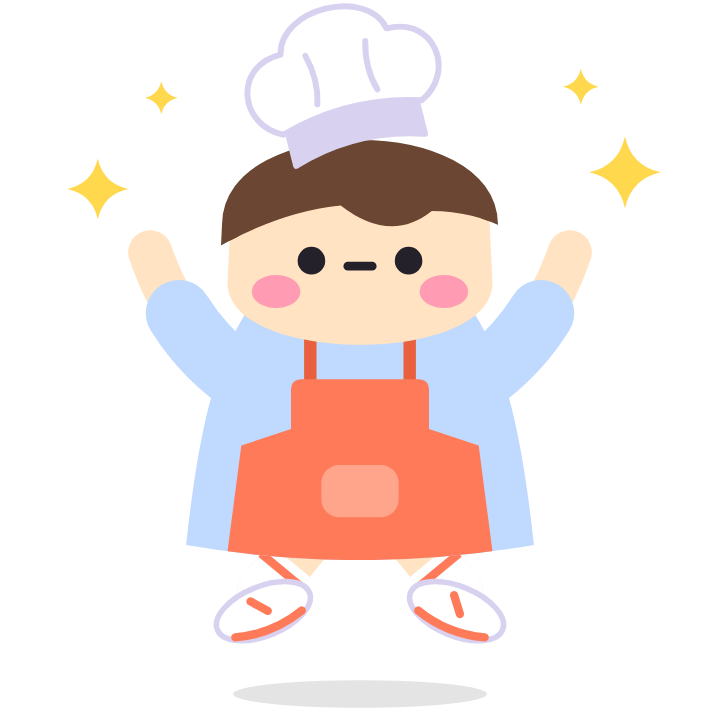
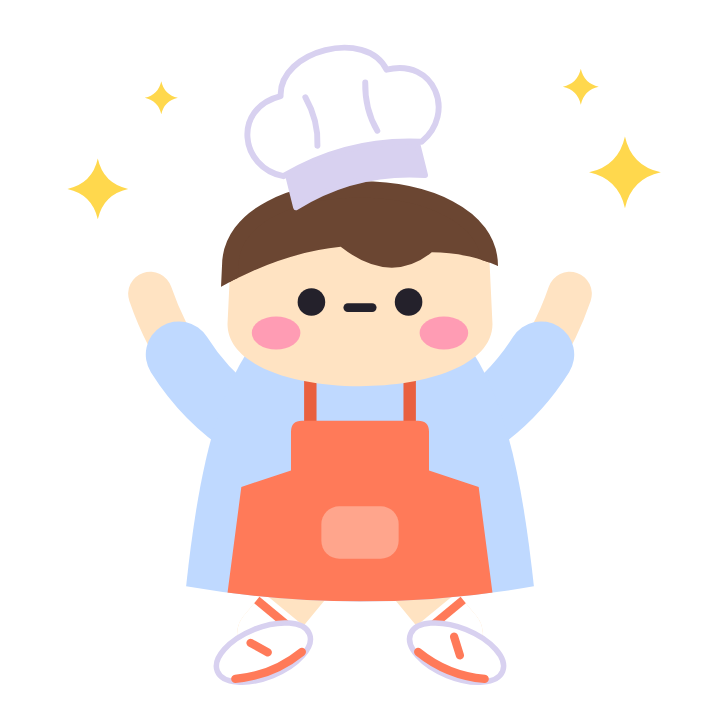
Animate the jump, fix the thinking hand and show the seated legs
The cheering chef and the happy taster now really jump: two hops and a
pause, with a ground shadow that shrinks while they are in the air, and
no movement when the device asks for reduced motion. The jump and shadow
come out of the drawings so the app can animate them.

In the thinking pose the hand rests under the chin instead of covering the
cheek. In the seated pose the legs stretch out past the skirt so the socks
and shoes show, and socks now cover only the lower leg.

Claude-Session: https://claude.ai/code/session_01YRit4BDrXmu1xBXH17a6cf

Changed region(s): [[0.1528, 0.0, 0.825, 1.0]]

diff --git a/src/components/ui.tsx b/src/components/ui.tsx
@@ -83,16 +83,26 @@ export function Card({ tone = 'soft', children, style, onPress, label }: { tone?
   );
 }
 
-/** ลอยขึ้นลงช้าๆ ให้มาสคอตดูมีชีวิต หยุดนิ่งถ้าเครื่องตั้งค่าลดการเคลื่อนไหว */
-export function Float({ children }: { children: ReactNode }) {
+/** ลอยขึ้นลงช้าๆ ให้ภาพดูมีชีวิต หรือ jump = กระโดดดีใจเป็นจังหวะพร้อมเงาที่พื้น หยุดนิ่งถ้าเครื่องตั้งค่าลดการเคลื่อนไหว */
+export function Float({ children, jump }: { children: ReactNode; jump?: boolean }) {
   const [y] = useState(() => new Animated.Value(0));
   useEffect(() => {
     let loop: Animated.CompositeAnimation | undefined;
-    const step = (toValue: number) => Animated.timing(y, { toValue, duration: 1400, easing: Easing.inOut(Easing.sin), useNativeDriver: Platform.OS !== 'web' });
-    AccessibilityInfo.isReduceMotionEnabled().then((reduce) => { if (!reduce) { loop = Animated.loop(Animated.sequence([step(-6), step(0)])); loop.start(); } }).catch(() => {});
+    const to = (toValue: number, duration: number, easing: (t: number) => number) => Animated.timing(y, { toValue, duration, easing, useNativeDriver: Platform.OS !== 'web' });
+    const steps = jump
+      ? [to(-20, 240, Easing.out(Easing.quad)), to(0, 240, Easing.in(Easing.quad)), to(-12, 180, Easing.out(Easing.quad)), to(0, 180, Easing.in(Easing.quad)), Animated.delay(700)]
+      : [to(-6, 1400, Easing.inOut(Easing.sin)), to(0, 1400, Easing.inOut(Easing.sin))];
+    AccessibilityInfo.isReduceMotionEnabled().then((reduce) => { if (!reduce) { loop = Animated.loop(Animated.sequence(steps)); loop.start(); } }).catch(() => {});
     return () => loop?.stop();
-  }, [y]);
-  return <Animated.View style={{ transform: [{ translateY: y }] }}>{children}</Animated.View>;
+  }, [y, jump]);
+  if (!jump) return <Animated.View style={{ transform: [{ translateY: y }] }}>{children}</Animated.View>;
+  return (
+    <View style={{ alignItems: 'center' }}>
+      <Animated.View style={{ transform: [{ translateY: y }] }}>{children}</Animated.View>
+      {/* เงาอยู่กับพื้น หดเล็กลงตอนตัวลอย */}
+      <Animated.View style={{ width: 56, height: 8, marginTop: -4, borderRadius: radius.pill, backgroundColor: 'rgba(36,33,43,0.14)', transform: [{ scaleX: y.interpolate({ inputRange: [-20, 0], outputRange: [0.6, 1] }) }] }} />
+    </View>
+  );
 }
 
 /** หัวหน้าจอพร้อมมาสคอต พื้นสีสดประจำหน้า แล้วต่อด้วยแผ่นเนื้อหาสีพื้น */

diff --git a/src/app/cook/[id].tsx b/src/app/cook/[id].tsx
@@ -8,7 +8,7 @@ import { useSafeAreaInsets } from 'react-native-safe-area-context';
 import Svg, { Circle } from 'react-native-svg';
 
 import { Icon } from '@/components/icon';
-import { ApiNotice, Button, Card, IconButton, mmss, Sheet, Skeleton, T } from '@/components/ui';
+import { ApiNotice, Button, Card, Float, IconButton, mmss, Sheet, Skeleton, T } from '@/components/ui';
 import { MASCOT } from '@/data/images';
 import { buildRecipe, MENU, SAFETY, tasteScore, type Heat, type Recipe, type Step } from '@/data/recipes';
 import { api, ApiError, type ApiErrorKind } from '@/lib/api';
@@ -187,7 +187,7 @@ function Timer({ seconds, name, endAt, onStart, t }: { seconds: number; name: st
           <Circle cx={RING / 2} cy={RING / 2} r={RING_R} stroke={done ? onPastel.success : vivid.indigo} strokeWidth={14} strokeLinecap="round" fill="none"
             strokeDasharray={RING_C} strokeDashoffset={RING_C * (1 - Math.max(0, Math.min(1, left / seconds)))} />
         </Svg>
-        {done ? <Image source={MASCOT.cheer} style={{ width: 124, height: 124 }} contentFit="contain" accessible={false} /> : <>
+        {done ? <Float jump><Image source={MASCOT.cheer} style={{ width: 120, height: 120 }} contentFit="contain" accessible={false} /></Float> : <>
           <T v="smallBold" tone="pastelMuted">{t('cook.timer')}</T>
           <T v="hero" tone="pastel" accessibilityRole="header">{mmss(left)}</T>
         </>}
@@ -301,7 +301,8 @@ function Taste({ r }: { r: Recipe }) {
           <T v="title" accessibilityRole="header">{score === null ? t('taste.title') : t('taste.result')}</T>
           {score === null && <T tone="muted">{t('taste.intro')}</T>}
         </View>
-        <Image source={score === null ? MASCOT.sip : score >= 4 ? MASCOT.yum : MASCOT.hmm} style={{ width: 120, height: 120 }} contentFit="contain" accessible={false} />
+        {score !== null && score >= 4 ? <Float jump><Image source={MASCOT.yum} style={{ width: 120, height: 120 }} contentFit="contain" accessible={false} /></Float>
+          : <Image source={score === null ? MASCOT.sip : MASCOT.hmm} style={{ width: 120, height: 120 }} contentFit="contain" accessible={false} />}
       </View>
       {score !== null && (
         <Card tone="accent" style={{ alignItems: 'center' }}>

diff --git a/assets/images/chef/src/draw.py b/assets/images/chef/src/draw.py
@@ -35,21 +35,20 @@ def legs(skin, sock, accent, feet, drop):
     """ขาจากสะโพกถึงเท้า เท้าแต่ละข้างกำหนดเป็น (x, y, มุมหมุนรองเท้า) จึงยกขา ก้าว หรือนั่งแบะขาได้"""
     out = ''
     for (hx, hy), (fx, fy, rot) in zip(((208, 372 + drop), (272, 372 + drop)), feet):
-        ax, ay = fx, fy - 14; mx, my = (hx + ax) / 2, (hy + ay) / 2
+        ax, ay = fx, fy - 14; mx, my = hx + (ax - hx) * 0.62, hy + (ay - hy) * 0.62  # ถุงเท้าคลุมช่วงล่างของขา
         dx, dy = ax - hx, ay - hy; n = max(1.0, (dx * dx + dy * dy) ** 0.5); px, py = -dy / n * 19, dx / n * 19
-        sx, sy = hx + dx * 0.66, hy + dy * 0.66
+        sx, sy = hx + dx * 0.74, hy + dy * 0.74
         out += (f'<path d="M{hx} {hy} L{ax} {ay}" stroke="{skin}" stroke-width="38" stroke-linecap="round"/><path d="M{mx} {my} L{ax} {ay}" stroke="{sock}" stroke-width="38"/><circle cx="{ax}" cy="{ay}" r="19" fill="{sock}"/>'
                 f'<path d="M{sx - px} {sy - py} L{sx + px} {sy + py}" stroke="{accent}" stroke-width="6"/>'
                 f'<g transform="rotate({rot} {fx} {fy})"><ellipse cx="{fx}" cy="{fy}" rx="36" ry="18" fill="#FFFFFF" stroke="{HAT_D}" stroke-width="4"/>'
                 f'<path d="M{fx-26} {fy+10} q26 8 52 0" stroke="{accent}" stroke-width="6" stroke-linecap="round" fill="none"/><path d="M{fx-6} {fy-10} l9 11" stroke="{accent}" stroke-width="6" stroke-linecap="round"/></g>')
     return out
-shadow = '<ellipse cx="240" cy="462" rx="92" ry="10" fill="#24212B" opacity="0.12"/>'
 _n = [0]
 def person(skin, top, clothes, hair, accent, look=(0, 0), mouth=True, sock='#FFFFFF', back='', under_head='', arms_back='', arms_front='', hat='', front='', blush=0.85,
-           lean=0, tilt=0, feet=STAND, lift=0, drop=0, ground=''):
-    """lean = เอนตัวท่อนบน (องศา) tilt = เอียงคอ feet = ตำแหน่งเท้า lift = ลอยจากพื้น (กระโดด) drop = ย่อตัวลง (นั่ง) ground = ของที่พื้น"""
+           lean=0, tilt=0, feet=STAND, drop=0, ground=''):
+    """lean = เอนตัวท่อนบน (องศา) tilt = เอียงคอ feet = ตำแหน่งเท้า drop = ย่อตัวลง (นั่ง) ground = ของที่พื้น การกระโดดทำเป็นแอนิเมชันในแอป"""
     _n[0] += 1; cid = f'c{_n[0]}'
-    return SVG(f'''<g transform="translate(240 470) scale(0.92) translate(-240 -470)">{ground}<g transform="translate(0 {-lift})">{legs(skin, sock, accent, feet, drop)}
+    return SVG(f'''<g transform="translate(240 470) scale(0.92) translate(-240 -470)">{ground}<g>{legs(skin, sock, accent, feet, drop)}
 <g transform="translate(0 {drop}) rotate({lean} 240 384)">{back}{arms_back}
 <clipPath id="{cid}"><path d="{TORSO}"/></clipPath><path d="{TORSO}" fill="{top}"/><g clip-path="url(#{cid})">{clothes}</g>
 <g transform="rotate({tilt} 240 236)">{under_head}<path d="{HEAD}" fill="{skin}"/>{hair}{hat}{face(look, mouth, blush)}</g>
@@ -78,10 +77,10 @@ POSES = {
   # เอนตัวตามกระทะ ของในกระทะลอยขึ้น
   'cook': chef(lean=9, tilt=-6, feet=((186, 440, -8), (286, 440, 10)), arms_front=wok(262, 346, -10) + A1('L', 200, 340, -34, 12) + A1('R', 356, 328, 30, 8)),
   # กระโดดตัวลอย แขนขากาง
-  'cheer': chef(lift=30, feet=((170, 432, -22), (310, 432, 22)), ground=shadow, arms_back=A1('L', 88, 172, -14, 16) + A1('R', 392, 172, 14, 16), hat=toque(-14),
+  'cheer': chef(feet=((170, 432, -22), (310, 432, 22)), arms_back=A1('L', 88, 172, -14, 16) + A1('R', 392, 172, 14, 16), hat=toque(-14),
                 front=star(50, 96, 22) + star(432, 84, 26) + star(400, 22, 13) + star(96, 30, 12)),
   # เอียงคอคิด เท้าไขว้
-  'think': chef(look=(10, -8), tilt=11, lean=3, feet=((214, 440, 0), (250, 438, -24)), arms_front=A1('L', 230, 334, -38, 16) + A1('R', 300, 252, 50, 10), hat=toque(4), blush=0.6,
+  'think': chef(look=(10, -8), tilt=11, lean=3, feet=((214, 440, 0), (250, 438, -24)), arms_front=A1('L', 230, 334, -38, 16) + A1('R', 262, 268, 54, 44), hat=toque(4), blush=0.6,
                 front=f'<circle cx="392" cy="112" r="8" fill="{HAT_D}"/><circle cx="414" cy="82" r="13" fill="{HAT_D}"/><circle cx="442" cy="40" r="22" fill="{HAT_D}"/>'),
   # ผงะถอยหลัง ยกขาข้างหนึ่ง มือกุมแก้ม
   'oops': chef(lean=-10, tilt=-4, feet=((214, 440, 0), (318, 410, 34)), arms_front=A1('L', 170, 214, -44, 22) + A1('R', 310, 214, 44, 22), hat=toque(-20), blush=0.5,
@@ -132,11 +131,11 @@ A3 = lambda side, hx, hy, bx=0, by=0: arm(side, hx, hy, bx, by, S3, BUTTER, 0.8)
 bigspoon = lambda x, y, r: f'<g transform="rotate({r} {x} {y})"><path d="M{x} {y+22} v-136" stroke="{WOOD}" stroke-width="12" stroke-linecap="round"/><ellipse cx="{x}" cy="{y-136}" rx="26" ry="35" fill="{WOOD}"/></g>'
 POSES.update({
   # นั่งแบะขาบนเบาะ ชิมจากช้อน
-  'sip': chim(mouth=False, tilt=-6, drop=46, feet=((138, 446, -62), (342, 446, 62)), ground=f'<ellipse cx="240" cy="452" rx="176" ry="24" fill="{ROSE}"/>',
+  'sip': chim(mouth=False, tilt=-6, drop=40, feet=((66, 440, -78), (414, 440, 78)), ground=f'<ellipse cx="240" cy="456" rx="214" ry="22" fill="#CFE3FF"/>',
               arms_front=f'<path d="M312 206 L262 192" stroke="{WOOD}" stroke-width="11" stroke-linecap="round"/><ellipse cx="248" cy="188" rx="22" ry="14" fill="{WOOD}"/>' + A3('R', 316, 212, 46, 18) + A3('L', 208, 338, -34, 14),
               front=heart(420, 150, 1.1) + heart(62, 184, 0.7)),
   # กระโดดชูช้อน ขาข้างหนึ่งเตะไปข้างหลัง
-  'yum': chim(lift=34, lean=7, tilt=-6, feet=((184, 436, -14), (318, 408, 46)), ground=shadow, arms_back=A3('L', 96, 176, -14, 16), arms_front=bigspoon(384, 286, 14) + A3('R', 382, 300, 22, -2),
+  'yum': chim(lean=7, tilt=-6, feet=((184, 436, -14), (318, 408, 46)), arms_back=A3('L', 96, 176, -14, 16), arms_front=bigspoon(384, 286, 14) + A3('R', 382, 300, 22, -2),
               front=star(52, 96, 20) + star(436, 26, 14) + star(108, 30, 11)),
   # เอียงคอสงสัย เท้าเขี่ยพื้น
   'hmm': chim(look=(-9, -7), tilt=-13, lean=-4, feet=((204, 440, 0), (296, 434, 30)), arms_front=bigspoon(368, 340, 22) + A3('R', 362, 340, 26, 2) + A3('L', 208, 338, -34, 14), blush=0.6,
